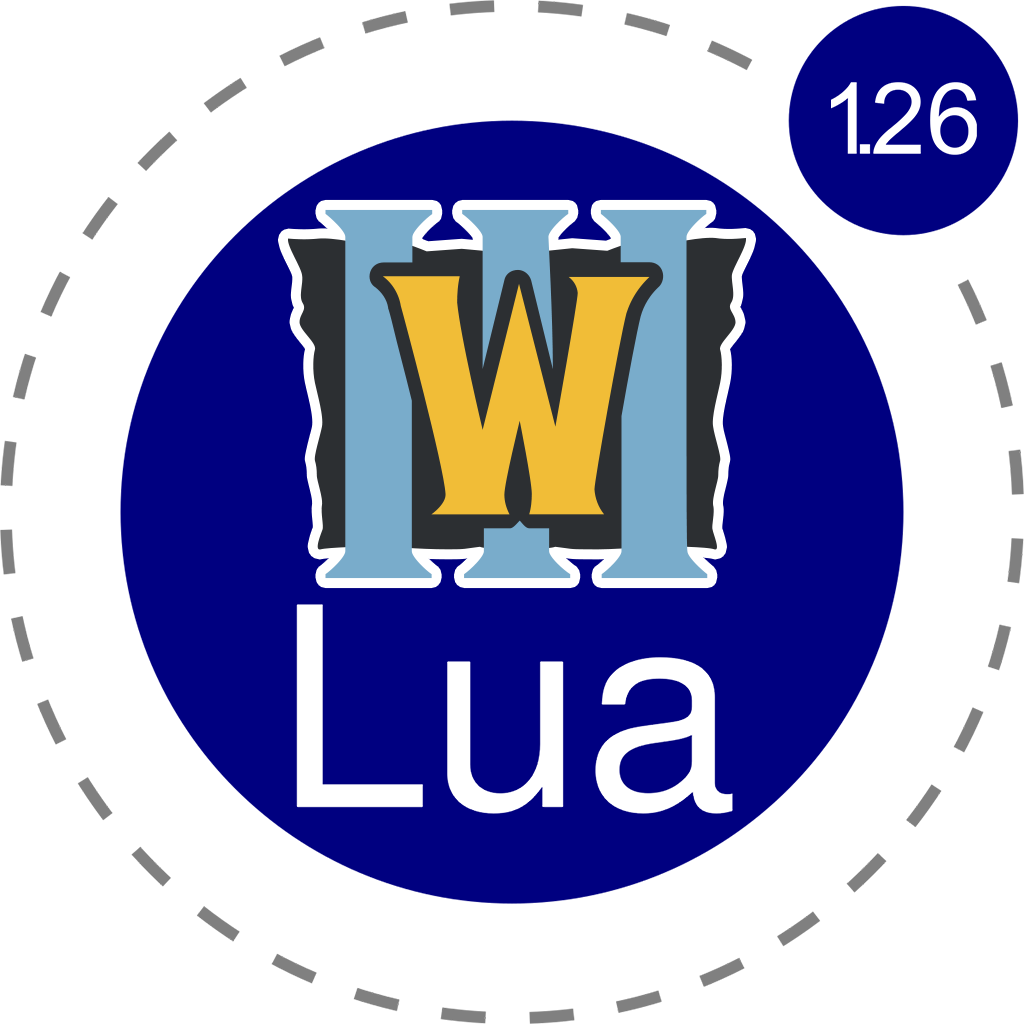
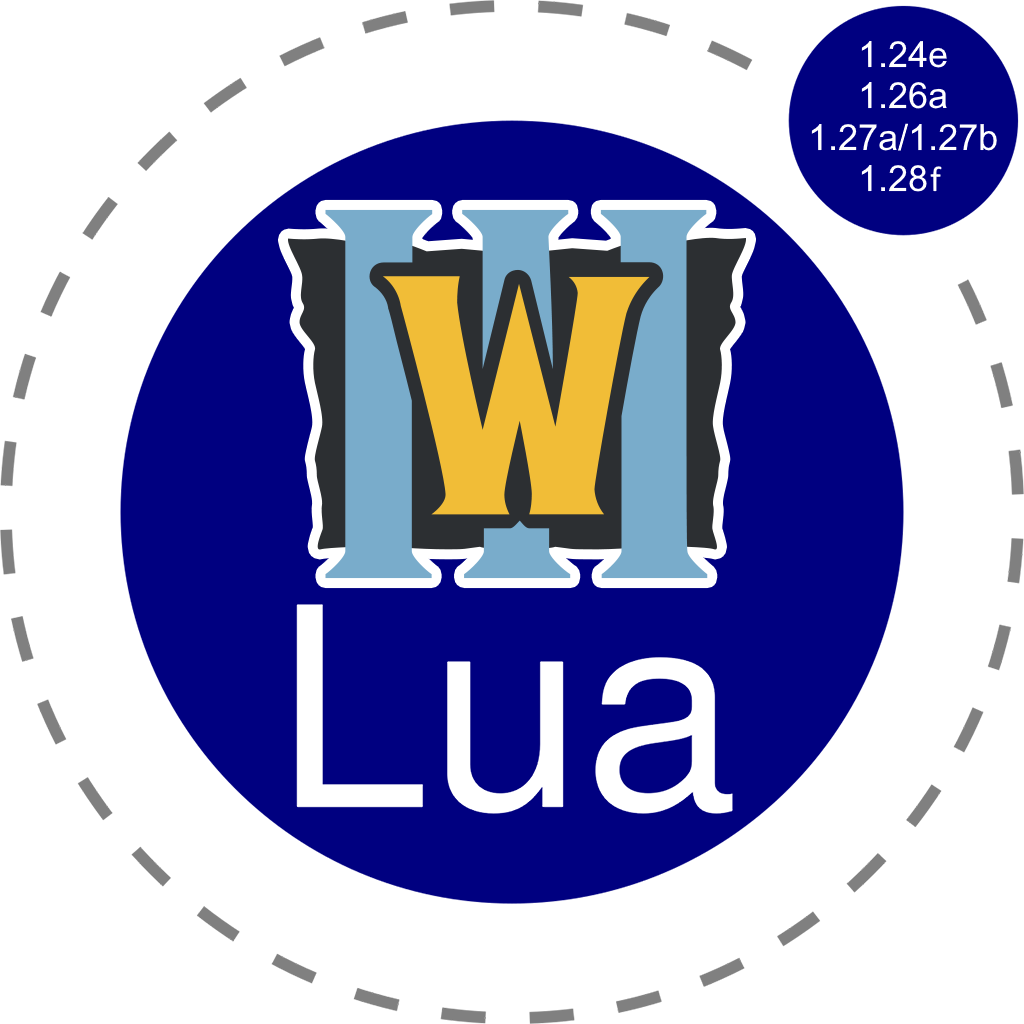
Critical bug was fixed. Added some features for good lua coding experience.

Changed region(s): [[0.7812, 0.0312, 0.9688, 0.1875]]

diff --git a/Src/LuaMachine.cpp b/Src/LuaMachine.cpp
@@ -16,8 +16,8 @@ namespace LuaMachine {
 
 	//----------------------------------------------------------
 
-	lua_State* GetMainState() {
-		if (!mainState) {
+	lua_State* GetMainState(bool init) {
+		if (!mainState && init) {
 			lua_State* l = mainState = luaL_newstate();
 			luaL_openlibs(l);
 			LuaHooks::lua_replaceSearchers(l);
@@ -47,7 +47,6 @@ namespace LuaMachine {
 		Logger::ClearConsole();
 	}
 
-
 	void StartLua() {
 		lua_State* l = GetMainState();
 		Storm::Archive map;
@@ -68,7 +67,7 @@ namespace LuaMachine {
 		JassMachine::PJASS_INSTANCE JassVM = JassMachine::GetJassInstance();
 		JassMachine::PJASS_STACK stack = JassVM->stack;
 
-		lua_State* l = GetMainState();
+		lua_State* l = (lua_State*)stack->Pop()->value; //GetMainState();
 		lua_State* thread = lua_newthread(l);
 		GetFunctionByRef(thread, stack->Pop()->value);
 		lua_pop(l, 1);
@@ -89,7 +88,6 @@ namespace LuaMachine {
 		case LUA_ERRRUN:
 			Error:
 			PVOID handle = Warcraft::ConvertHandle(Jass::GetNative("GetTriggeringTrigger").Invoke(NULL, NULL) | Jass::GetNative("GetExpiredTimer").Invoke(NULL, NULL));
-
 			if (handle) {
 				fast_call<UINT>((*(UINT*)(*(UINT*)handle + 0x5c)), handle);
 			}
@@ -152,6 +150,52 @@ namespace LuaMachine {
 		lua_remove(l, -2); // 1 -
 	}
 
+	int GetUserdataByHandle(lua_State* l, DWORD handle, LPCSTR tname) {
+		if (!handle) {
+			lua_pushnil(l);
+
+			return 1;
+		}
+
+		UINT key = (UINT)Warcraft::ConvertHandle(handle);
+		key ? GetGlobalTable(l, "_LUA_WARCRAFT_HANDLES", false) : (GetGlobalTable(l, std::string("_LUA_CONST_").append(tname).c_str(), false), key = handle);
+		lua_pushinteger(l, key);
+		lua_rawget(l, -2);
+
+		if (luaL_testudata(l, -1, tname)) {
+			lua_remove(l, -2);
+
+			return 1;
+		}
+		else if (lua_isnil(l, -1)) {
+			lua_pop(l, 1);
+			*(DWORD*)lua_newuserdata(l, sizeof(handle)) = handle;
+			lua_pushinteger(l, key);
+			lua_pushvalue(l, -2);
+			lua_rawset(l, -4);
+			lua_remove(l, -2);
+		}
+
+		luaL_setmetatable(l, tname);
+
+		return 1;
+	}
+
+	void DeleteUserdataByHandle(lua_State* l, DWORD handle) {
+		GetGlobalTable(l, "_LUA_WARCRAFT_HANDLES", false);
+		lua_pushinteger(l, handle);
+		lua_rawget(l, -2);
+
+		if (!lua_isnil(l, -1)) {
+			*(DWORD*)lua_touserdata(l, -1) = NULL;
+			lua_pushinteger(l, handle);
+			lua_pushnil(l);
+			lua_rawset(l, -4);
+		}
+
+		lua_pop(l, 2);
+	}
+
 	//----------------------------------------------------------
 
 	void lua_throwerr(lua_State* l) {
@@ -162,8 +206,7 @@ namespace LuaMachine {
 		//printfChat(100, "\n|cFFFF0000--------------------Lua Error--------------------|r\n%s\n|cFFFF0000------------------------------------------------------------|r\n\n", error);
 	}
 
-	int stacktrace(lua_State* L)
-	{
+	int stacktrace(lua_State* L) {
 		luaL_traceback(L, L, lua_tostring(L, -1), 0);
 
 		return 1;

diff --git a/Src/LuaFunctions.cpp b/Src/LuaFunctions.cpp
@@ -251,7 +251,6 @@ namespace LuaFunctions {
 
 		BOOL result = native.Invoke(params.data(), size);
 
-
 		// Jass return -> Lua return
 		std::string return_type = native.GetReturnType();
 		if (isupper(return_type[0])) {
@@ -282,14 +281,8 @@ namespace LuaFunctions {
 			}
 		}
 		else {
-			result ? *(DWORD*)lua_newuserdata(l, sizeof(DWORD)) = result, luaL_setmetatable(l, return_type.c_str()) : lua_pushnil(l);
-			/*if (result) {
-				*(DWORD*)lua_newuserdata(l, sizeof(DWORD)) = result;
-				luaL_setmetatable(l, return_type.c_str());
-			}
-			else {
-				lua_pushnil(l);
-			}*/
+			LuaMachine::GetUserdataByHandle(l, result, return_type.c_str());
+			//result ? *(DWORD*)lua_newuserdata(l, sizeof(DWORD)) = result, luaL_setmetatable(l, return_type.c_str()) : lua_pushnil(l);
 		}
 
 		return 1;
@@ -307,17 +300,16 @@ namespace LuaFunctions {
 	}
 
 	int lua_handletostring(lua_State* l) {
-		lua_getmetatable(l, 1);
-		lua_getfield(l, 2, "__name");
+		luaL_getmetafield(l, 1, "__name");
 
 		UINT handle = *(UINT*)lua_touserdata(l, 1);
 
-		std::string string = Logger::format("%s: %08X", lua_tostring(l, 3), handle);
-		if (developerMode && handle > 0x100000) {
+		std::string string = Logger::format("%s: %08X", lua_tostring(l, 2), handle);
+		if (developerMode) {
 			string += Logger::format(" | %08X", Warcraft::ConvertHandle(handle));
 		}
 
-		lua_pop(l, 2);
+		lua_pop(l, 1);
 	
 		lua_pushstring(l, string.c_str());
 	
@@ -369,6 +361,17 @@ namespace LuaFunctions {
 		return 1;
 	}
 
+	int IsHandleExists(lua_State* l) {
+		if (lua_isuserdata(l, 1)) {
+			lua_pushboolean(l, *(DWORD*)lua_touserdata(l, 1) != NULL);
+		}
+		else {
+			return luaL_typeerror(l, 1, "handle");
+		}
+
+		return 1;
+	}
+
 	void lua_openJassNatives(lua_State* l) {
 		Jass::JassNativesParse();
 
@@ -394,6 +397,7 @@ namespace LuaFunctions {
 		lua_register(l, "IdToString", IdToString);
 		lua_register(l, "StringToId", StringToId);
 		lua_register(l, "FourCC", FourCC);
+		lua_register(l, "IsHandleExists", IsHandleExists);
 	}
 
 	//--------------------------------------------------------

diff --git a/Src/Hooks.cpp b/Src/Hooks.cpp
@@ -10,8 +10,9 @@ namespace Hooks {
 	};
 
 	enum class ObserverRegistryTypes : UINT {
-		GAME_START_LOADING = 0x00402000,
-		GAME_FINISH_LOADING = 0x00140800
+		GAME_START_LOADING =  0x00402000, // 010000000010000000000000
+		GAME_FINISH_LOADING2 =  0x130800, // 000100110000100000000000
+		GAME_FINISH_LOADING = 0x00140800  // 000101000000100000000000
 	};
 
 	typedef struct {
@@ -36,6 +37,15 @@ namespace Hooks {
 		return pOffsets[(UINT)Offset::GetWarcraftVersionKey] ? std_call<DWORD>(pOffsets[(UINT)Offset::GetWarcraftVersionKey]) : NULL;
 	}
 
+	BOOL __fastcall GlobalDeallocator(UINT handle) {
+		lua_State* l = LuaMachine::GetMainState(false);
+		if (l) {
+			LuaMachine::DeleteUserdataByHandle(l , handle);
+		}
+
+		return pOffsets[(UINT)Offset::GlobalDeallocator] ? this_call<BOOL>(pOffsets[(UINT)Offset::GlobalDeallocator], handle) : NULL;
+	}
+
 	//--------------------------------------------
 
 	DWORD GetLuaVersionKey() {
@@ -46,7 +56,7 @@ namespace Hooks {
 		if (observer && cevent) {
 			switch (cevent->id) {
 			case (UINT)EventTypes::EVENT_CNET_GAME_START:
-				if (*observer->registry == (UINT)ObserverRegistryTypes::GAME_FINISH_LOADING) {
+				if (*observer->registry & 0x100800) { // When map loading finished (000100000000100000000000)
 					LuaMachine::StartLua();
 				}
 
@@ -62,7 +72,8 @@ namespace Hooks {
 	}
 
 	void SetHooksState(bool flag) {
-		Detour::SetState(flag,&pOffsets[(UINT)Offset::CGameEventHandler], (UINT_PTR)CGameEventHandler);
-		Detour::SetState(flag,&pOffsets[(UINT)Offset::GetWarcraftVersionKey], (UINT_PTR)GetLuaVersionKey);
+		Detour::SetState(flag, &pOffsets[(UINT)Offset::CGameEventHandler], (UINT_PTR)CGameEventHandler);
+		Detour::SetState(flag, &pOffsets[(UINT)Offset::GetWarcraftVersionKey], (UINT_PTR)GetLuaVersionKey);
+		Detour::SetState(flag, &pOffsets[(UINT)Offset::GlobalDeallocator], (UINT_PTR)GlobalDeallocator);
 	}
 }

diff --git a/Src/Offsets.cpp b/Src/Offsets.cpp
@@ -18,6 +18,7 @@ bool InitOffsets() {
 		pOffsets[(UINT)Offset::GameObject] = 0xacd44c;
 		pOffsets[(UINT)Offset::GetGameUI] = 0x301250;
 		pOffsets[(UINT)Offset::DisplayTimedTextToPlayer] = 0x2f9980;
+		pOffsets[(UINT)Offset::GlobalDeallocator] = 0x1f70;
 
 		break;
 	case Warcraft::Version::V126a:
@@ -32,6 +33,7 @@ bool InitOffsets() {
 		pOffsets[(UINT)Offset::GameObject] = 0xab65f4;
 		pOffsets[(UINT)Offset::GetGameUI] = 0x300710;
 		pOffsets[(UINT)Offset::DisplayTimedTextToPlayer] = 0x2f8e40;
+		pOffsets[(UINT)Offset::GlobalDeallocator] = 0x1f70;
 
 		break;
 	case Warcraft::Version::V127a:
@@ -46,6 +48,7 @@ bool InitOffsets() {
 		pOffsets[(UINT)Offset::GameObject] = 0xbe4238;
 		pOffsets[(UINT)Offset::GetGameUI] = 0x34f3a0;
 		pOffsets[(UINT)Offset::DisplayTimedTextToPlayer] = 0x357640;
+		pOffsets[(UINT)Offset::GlobalDeallocator] = 0x218c0;
 
 		break;
 	case Warcraft::Version::V127b:
@@ -60,6 +63,7 @@ bool InitOffsets() {
 		pOffsets[(UINT)Offset::GameObject] = 0xd687a8;
 		pOffsets[(UINT)Offset::GetGameUI] = 0x36cb20;
 		pOffsets[(UINT)Offset::DisplayTimedTextToPlayer] = 0x374de0;
+		pOffsets[(UINT)Offset::GlobalDeallocator] = 0x3e9c0;
 
 		break;
 	case Warcraft::Version::V128f:
@@ -74,6 +78,7 @@ bool InitOffsets() {
 		pOffsets[(UINT)Offset::GameObject] = 0xd305e0;
 		pOffsets[(UINT)Offset::GetGameUI] = 0x3a0b70;
 		pOffsets[(UINT)Offset::DisplayTimedTextToPlayer] = 0x3a8eb0;
+		pOffsets[(UINT)Offset::GlobalDeallocator] = 0x69a50;
 
 		break;
 	default:

diff --git a/Src/LuaHooks.cpp b/Src/LuaHooks.cpp
@@ -366,6 +366,44 @@ namespace LuaHooks {
 		return 0;
 	}
 
+	int luaB_getmetatable(lua_State* l) {
+		luaL_checkany(l, 1);
+		if (!lua_getmetatable(l, 1)) {
+			lua_pushnil(l);
+
+			return 1;
+		}
+
+		if (luaL_getmetafield(l, 1, "__metatable") == LUA_TSTRING) {
+			if (luaL_testudata(l, 1, lua_tostring(l, 3))) {
+				lua_pop(l, 2);
+				lua_pushnil(l);
+			}
+		}
+
+		return 1;
+	}
+
+	int luaB_type(lua_State* l) {
+		int t = lua_type(l, 1);
+		luaL_argcheck(l, t != LUA_TNONE, 1, "value expected");
+		if (t == LUA_TUSERDATA) {
+			if (lua_getmetatable(l, 1) && luaL_getmetafield(l, 1, "__metatable") == LUA_TSTRING) {
+				lua_remove(l, 2);
+
+				if (luaL_testudata(l, 1, lua_tostring(l, 2))) {
+					return 1;
+				}
+
+				lua_pop(l, 1);
+			}
+		}
+
+		lua_pushstring(l, lua_typename(l, t));
+
+		return 1;
+	}
+
 	//---------------------------------------------------------------------------------
 
 	void lua_replaceGlobals(lua_State* l) {
@@ -374,5 +412,11 @@ namespace LuaHooks {
 
 		lua_pushcfunction(l, lua_print);
 		lua_setglobal(l, "print");
+
+		lua_pushcfunction(l, luaB_getmetatable);
+		lua_setglobal(l, "getmetatable");
+
+		lua_pushcfunction(l, luaB_type);
+		lua_setglobal(l, "type");
 	}
 }

diff --git a/Src/JassNatives.cpp b/Src/JassNatives.cpp
@@ -23,6 +23,8 @@ namespace Jass {
 		BYTE reg = 0xD8;
 		oplist.AddOperation(OPCODE_TYPE::MOVRLITERAL, reg, LuaMachine::PushFunctionRef(l, index), OPCODE_VARIABLE::TYPE_INTEGER);
 		oplist.AddOperation(OPCODE_TYPE::PUSH, reg);
+		oplist.AddOperation(OPCODE_TYPE::MOVRLITERAL, reg, (DWORD)l, OPCODE_VARIABLE::TYPE_INTEGER);
+		oplist.AddOperation(OPCODE_TYPE::PUSH, reg);
 		oplist.AddOperation(OPCODE_TYPE::STARTLUATHREAD);
 		oplist.AddOperation(OPCODE_TYPE::MOVRR);
 		oplist.AddOperation(OPCODE_TYPE::RETURN);

diff --git a/Src/LuaMachine.h b/Src/LuaMachine.h
@@ -3,6 +3,8 @@
 namespace LuaMachine {
 	extern std::map<std::string, bool> handlemetatypes;
 
+	lua_State* GetMainState(bool init = true);
+
 	void DestroyLua();
 	void StartLua();
 	BOOL __stdcall StartLuaThread();
@@ -12,4 +14,7 @@ namespace LuaMachine {
 
 	int PushFunctionRef(lua_State* l, int index);
 	void GetFunctionByRef(lua_State* l, int ref);
+
+	BOOL GetUserdataByHandle(lua_State* l, DWORD handle, LPCSTR tname);
+	void DeleteUserdataByHandle(lua_State* l, DWORD handle);
 }

diff --git a/Src/Warcraft.cpp b/Src/Warcraft.cpp
@@ -62,6 +62,6 @@ namespace Warcraft {
 	}
 
 	LPVOID ConvertHandle(UINT handle) {
-		return handle ? *(LPVOID*)(*(UINT*)(*(UINT*)(*(UINT*)pOffsets[(UINT)Offset::GameObject] + 0x1c) + 0x19c) + handle * 0xc - 0x2fffff * 4) : NULL;
+		return handle > 0x100000 ? *(LPVOID*)(*(UINT*)(*(UINT*)(*(UINT*)pOffsets[(UINT)Offset::GameObject] + 0x1c) + 0x19c) + handle * 0xc - 0x2fffff * 4) : NULL;
 	}
 }

diff --git a/Src/pch.h b/Src/pch.h
@@ -23,8 +23,8 @@
 #define ANSI_COLOR_RESET   "\x1B[0m"
 
 #define WAR3_LUA_MAJOR "1"
-#define WAR3_LUA_MINOR "2"
-#define WAR3_LUA_RELEASE "9"
+#define WAR3_LUA_MINOR "3"
+#define WAR3_LUA_RELEASE "0"
 #define WAR3_LUA_VERSION_NAME  ANSI_COLOR_YELLOW "Outland" ANSI_COLOR_RESET
 
 #define WAR3_LUA_VERSION WAR3_LUA_MAJOR "." WAR3_LUA_MINOR "." WAR3_LUA_RELEASE

diff --git a/Src/EasterEgg.cpp b/Src/EasterEgg.cpp
@@ -46,7 +46,7 @@ std::string GetEasterText(SYSTEMTIME& date) {
 		text = "~~~ Quro started his work...  ~~~";
 	}
 
-	if (day == 6	&&	month == 4) {
+	if (day == 6	&&	month == 4  ) {
 		text = "~~~ Kokomi's day  ~~~";
 	}
 

diff --git a/Src/Offsets.h b/Src/Offsets.h
@@ -12,6 +12,7 @@ enum class Offset : UINT {
 	GameObject,
 	GetGameUI,
 	DisplayTimedTextToPlayer,
+	GlobalDeallocator,
 	SIZE
 };
 

diff --git a/README.md b/README.md
@@ -1,8 +1,8 @@
-# War3 Lua - 1.2.9 (<span style="color:orange">Outland</span>)
+# War3 Lua - 1.3.0 (<span style="color:orange">Outland</span>)
 
 [![build](https://github.com/Ev3nt/war3_lua/actions/workflows/build.yml/badge.svg)](https://github.com/Ev3nt/war3_lua/actions/workflows/build.yml)
 ![lua](https://img.shields.io/badge/lua-v5.4.4-blue)
-![warcraft](https://img.shields.io/badge/warcraft-1.26a-darkgreen)
+![warcraft](https://img.shields.io/badge/warcraft-1.24e/1.26a/1.27a/1.27b/1.28f-darkgreen)
 ![license](https://img.shields.io/github/license/Ev3nt/war3_lua?color=green)
 ![forks](https://img.shields.io/github/forks/Ev3nt/war3_lua?style=social)
 
